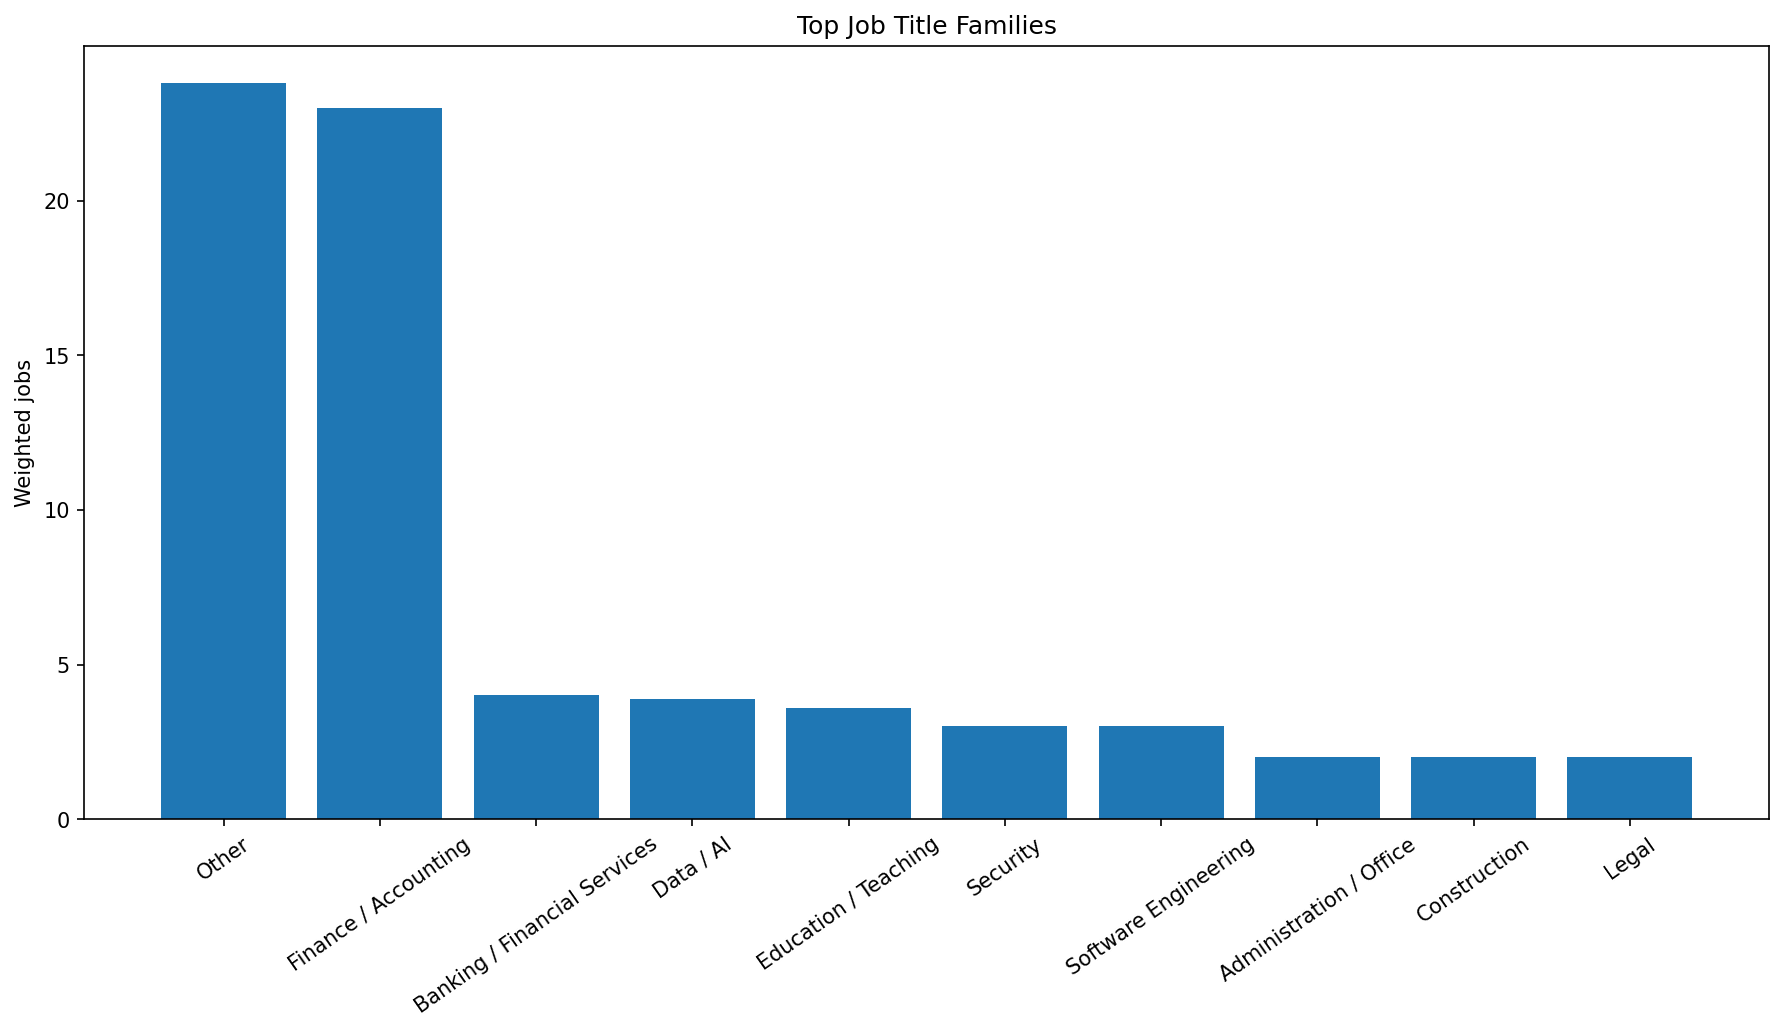
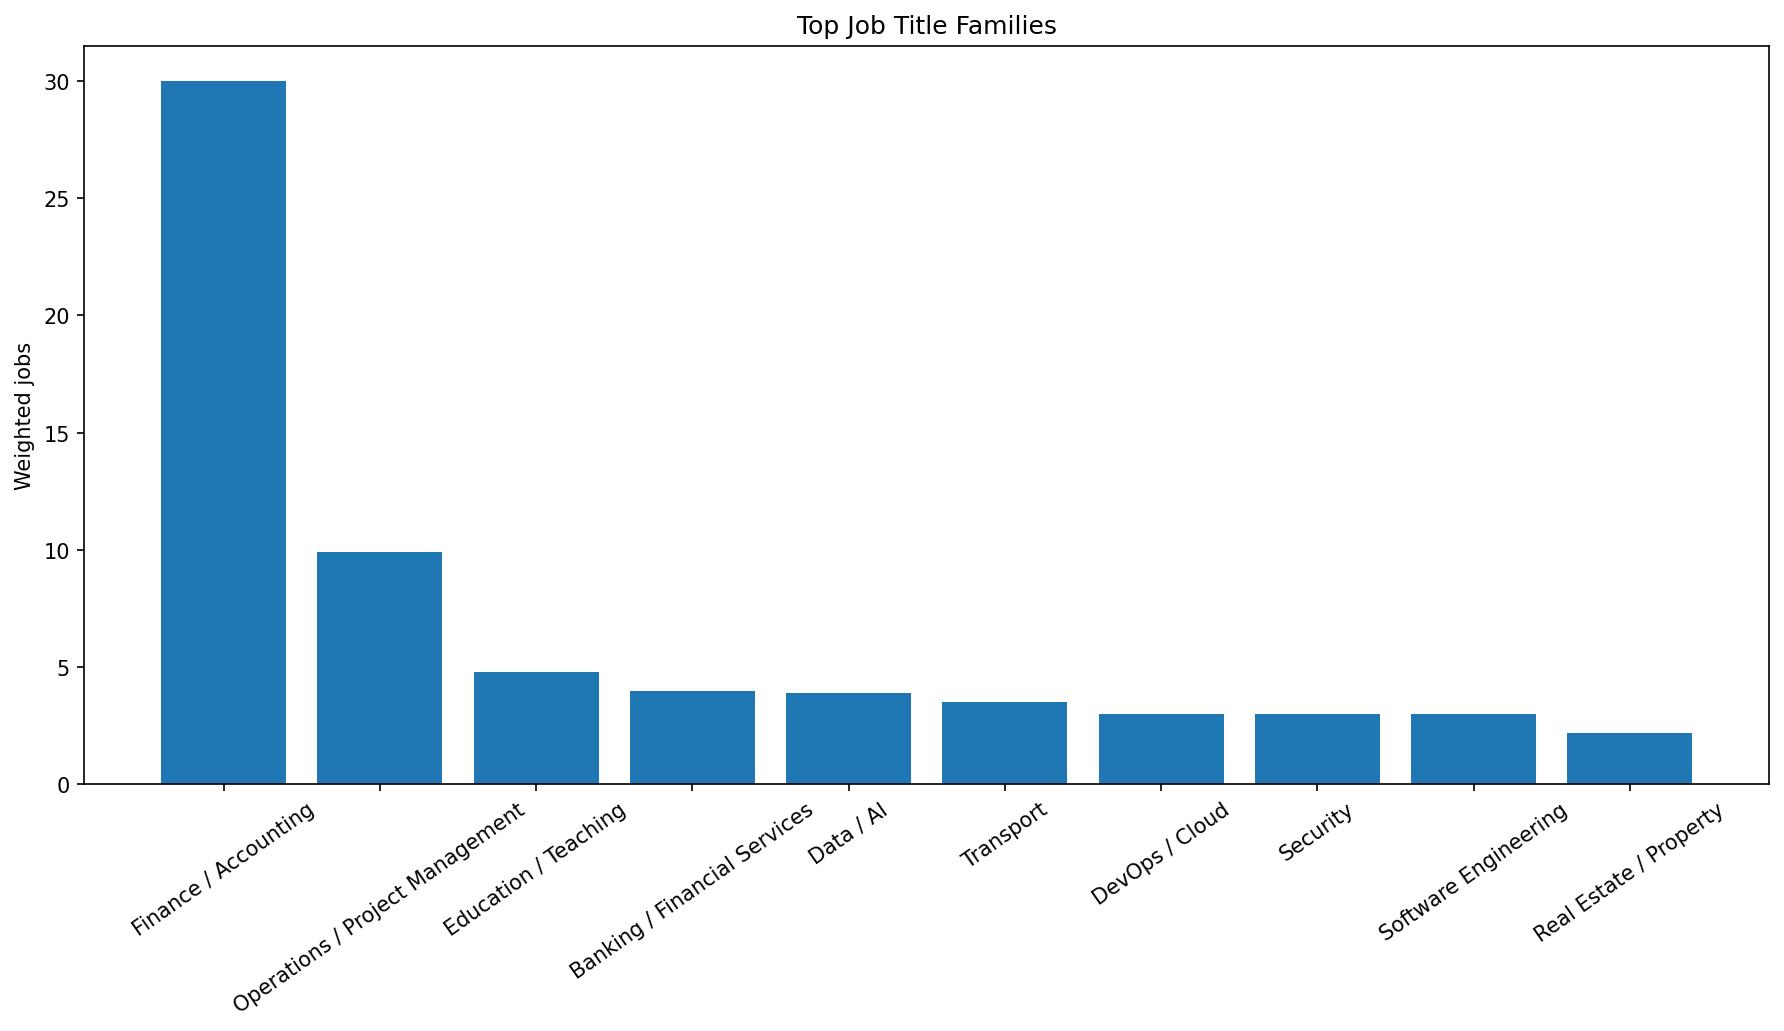
refine job families

diff --git a/output/site/content/analytics.md b/output/site/content/analytics.md
@@ -1,14 +1,14 @@
 +++
 title = "Market Analytics"
 description = "Deduplicated, quality-score-weighted market analytics for the latest sponsor-matched UK job run."
-lastmod = "2026-04-17T09:51:07.966723+00:00"
-last_research_at = "2026-04-17T09:51:07.966723+00:00"
+lastmod = "2026-04-17T19:28:57.115923+00:00"
+last_research_at = "2026-04-17T19:28:57.115923+00:00"
 +++
 
 # Market Analytics
 
-Last research run (UTC): 2026-04-17T09:51:07.966723+00:00
-Generated at: 2026-04-17T09:51:07.966723+00:00
+Last research run (UTC): 2026-04-17T19:28:57.115923+00:00
+Generated at: 2026-04-17T19:28:57.115923+00:00
 
 ## Scope
 
@@ -92,16 +92,16 @@ All charts below use quality-score-weighted totals rather than raw row counts.
 
 | Title Family | Weighted score | Raw jobs |
 |---|---|---|
-| Other | 23.80 | 28 |
-| Finance / Accounting | 23.00 | 24 |
+| Finance / Accounting | 30.00 | 31 |
+| Operations / Project Management | 9.90 | 12 |
+| Education / Teaching | 4.80 | 8 |
 | Banking / Financial Services | 4.00 | 4 |
 | Data / AI | 3.90 | 6 |
-| Education / Teaching | 3.60 | 6 |
+| Transport | 3.50 | 4 |
+| DevOps / Cloud | 3.00 | 3 |
 | Security | 3.00 | 3 |
 | Software Engineering | 3.00 | 3 |
-| Administration / Office | 2.00 | 2 |
-| Construction | 2.00 | 2 |
-| Legal | 2.00 | 2 |
+| Real Estate / Property | 2.20 | 3 |
 
 ## Visa Routes
 

diff --git a/output/reports/market_analytics_report.md b/output/reports/market_analytics_report.md
@@ -1,7 +1,7 @@
 # Market Analytics
 
-Last research run (UTC): 2026-04-17T09:51:07.966723+00:00
-Generated at: 2026-04-17T09:51:07.966723+00:00
+Last research run (UTC): 2026-04-17T19:28:57.115923+00:00
+Generated at: 2026-04-17T19:28:57.115923+00:00
 
 ## Scope
 
@@ -85,16 +85,16 @@ All charts below use quality-score-weighted totals rather than raw row counts.
 
 | Title Family | Weighted score | Raw jobs |
 |---|---|---|
-| Other | 23.80 | 28 |
-| Finance / Accounting | 23.00 | 24 |
+| Finance / Accounting | 30.00 | 31 |
+| Operations / Project Management | 9.90 | 12 |
+| Education / Teaching | 4.80 | 8 |
 | Banking / Financial Services | 4.00 | 4 |
 | Data / AI | 3.90 | 6 |
-| Education / Teaching | 3.60 | 6 |
+| Transport | 3.50 | 4 |
+| DevOps / Cloud | 3.00 | 3 |
 | Security | 3.00 | 3 |
 | Software Engineering | 3.00 | 3 |
-| Administration / Office | 2.00 | 2 |
-| Construction | 2.00 | 2 |
-| Legal | 2.00 | 2 |
+| Real Estate / Property | 2.20 | 3 |
 
 ## Visa Routes
 
